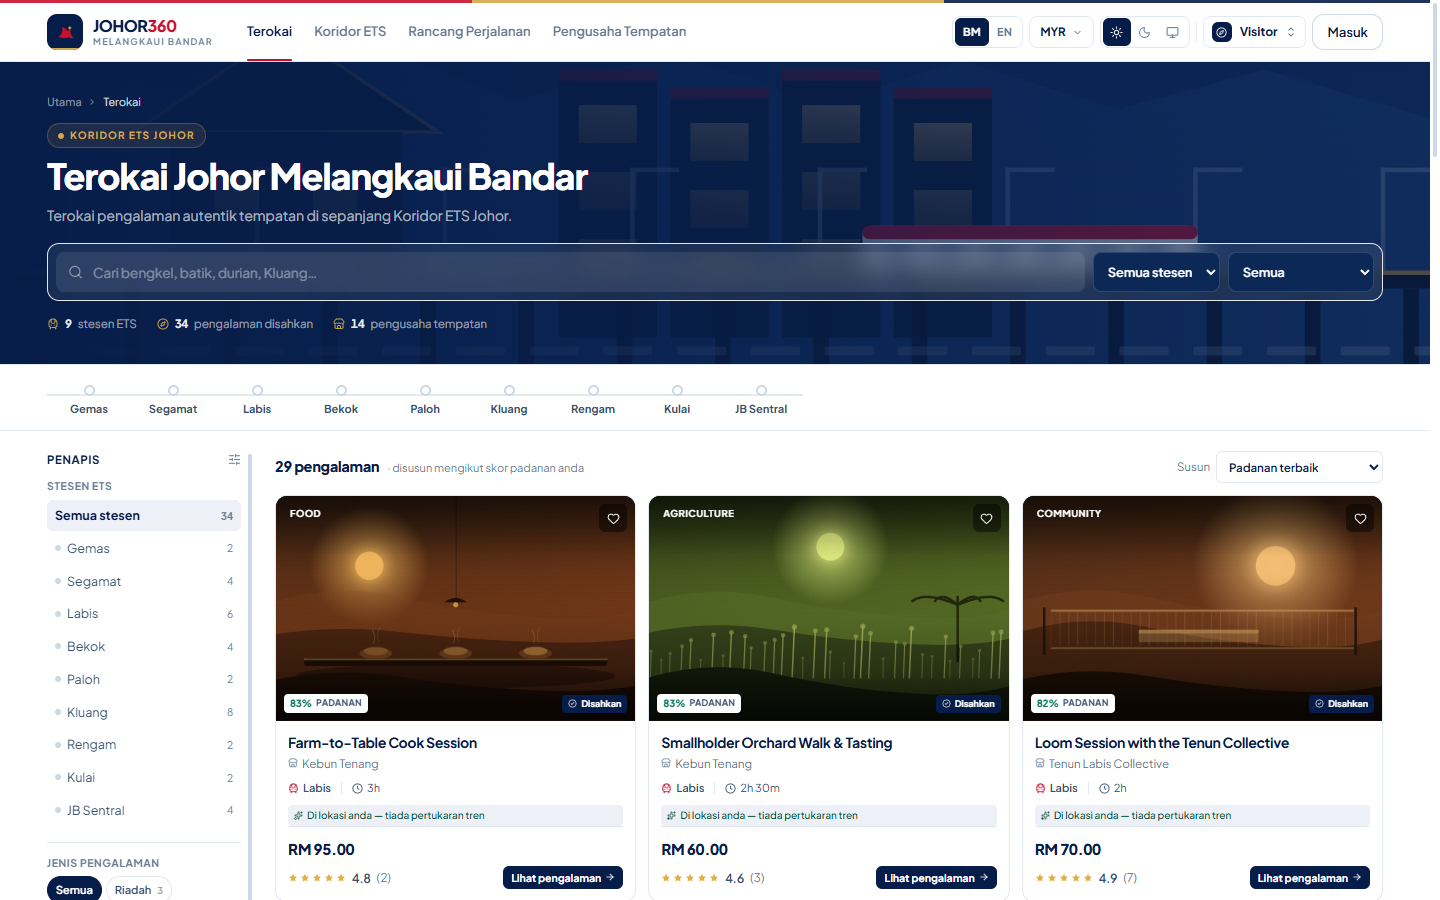
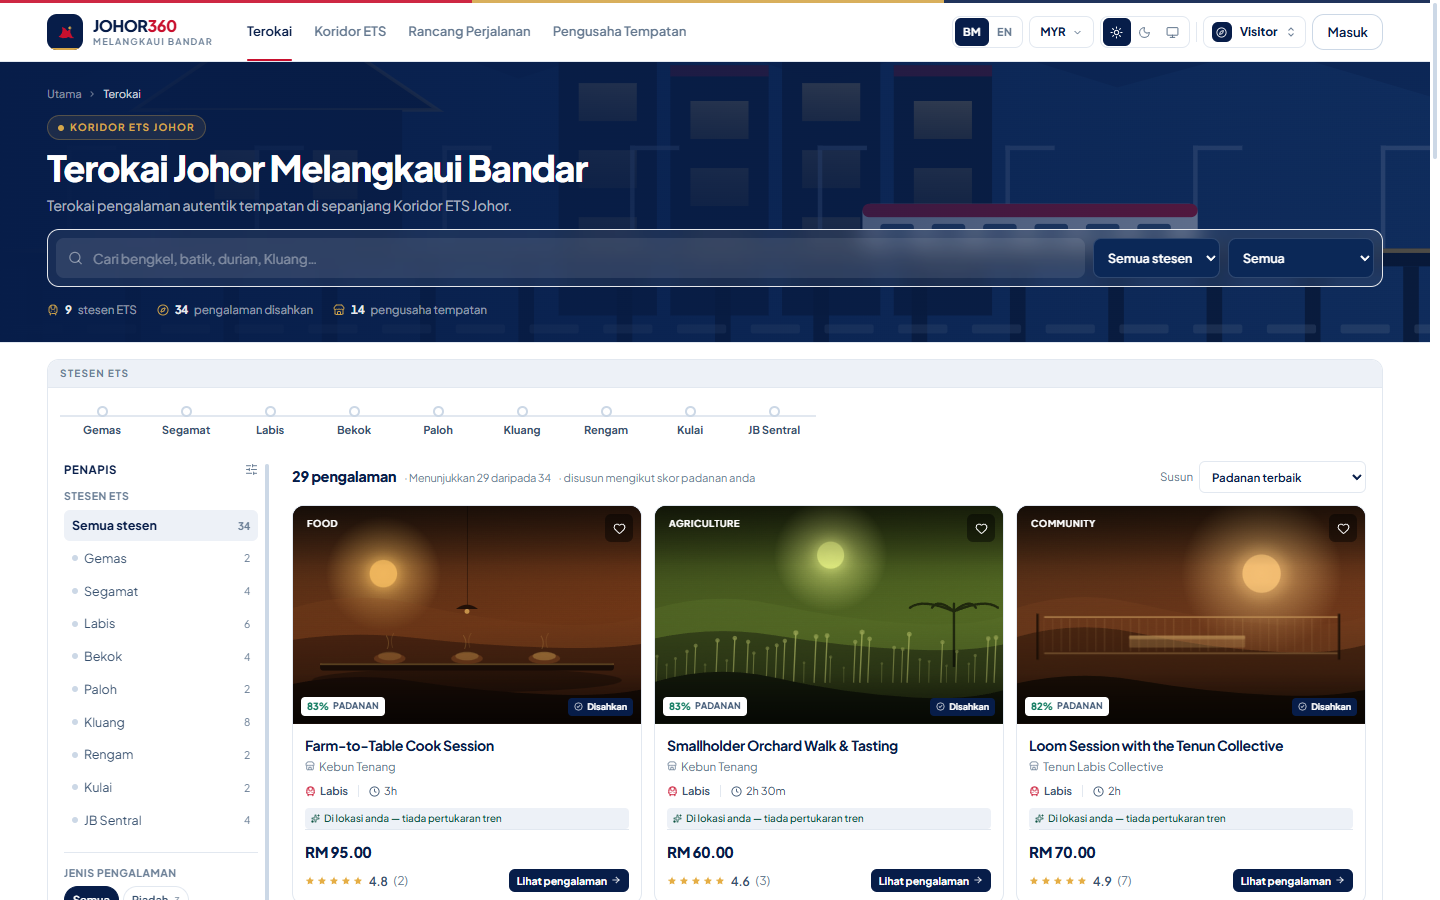
V2.2 fix: language switch now re-renders immediately (getFixedT on lang state, not i18n.language read in effect)

diff --git a/src/app/prefs.tsx b/src/app/prefs.tsx
@@ -143,8 +143,19 @@ export function PreferencesProvider({ children }: { children: ReactNode }) {
       setCurrency: setCurrencyState,
       origin,
       setOrigin: setOriginState,
-      t: (key, vars) =>
-        (vars ? i18n.t(key, vars as never) : i18n.t(key)) as string,
+      // Resolve against the `lang` state, not `i18n.language`.
+      //
+      // `i18n.changeLanguage()` is called from a useEffect, so on the render that
+      // follows setLang() the i18next instance is still on the old language while
+      // React has already re-rendered with the new value. Reading i18n.language
+      // there produced one frame of the *old* language and no re-render after the
+      // effect landed — headlines visibly stayed in the previous language until a
+      // full page reload. getFixedT(lang) is derived from state, so the render is
+      // correct immediately and stays correct.
+      t: (key, vars) => {
+        const fixed = i18n.getFixedT(lang)
+        return (vars ? fixed(key, vars as never) : fixed(key)) as string
+      },
       // English is the source language, so en returns the string untouched.
       tx: (text) => (lang === 'ms' ? (TABLE[norm(text)] ?? text) : text),
     }),

diff --git a/CURRENCY_CONVERSION_SPEC.md b/CURRENCY_CONVERSION_SPEC.md
@@ -1,0 +1,107 @@
+# Currency Conversion Specification
+
+## Principle
+
+**MYR is the source of truth. Every stored price is an integer or decimal in
+ringgit and is never mutated.** Display currency is a presentation layer applied
+at render time. Switching currency cannot change what is stored, what is matched
+against a budget, or what an operator entered.
+
+This matters for the matching engine: budget is a hard constraint. If budget
+comparison ran on converted values, floating-point drift in exchange rates could
+change which experiences a visitor is shown on a given day. It does not, because
+comparison happens in MYR.
+
+## Supported currencies
+
+`MYR`, `SGD`, `USD`, `IDR`, `THB`, `EUR`, `GBP`, `CNY`.
+
+Default is `MYR`. The selection persists in `localStorage` under
+`johor360.v2.currency`.
+
+## Rate sources
+
+Two keyless public providers, tried in order:
+
+1. **ExchangeRate-API open endpoint** — `https://open.er-api.com/v6/latest/USD`
+   Free, no key, no subscription. Returns its own `time_last_update_utc`, which is
+   surfaced to the user verbatim so the true age of the rate is always visible.
+2. **Frankfurter** — `https://api.frankfurter.dev/v1/latest`
+   Fallback. Republishes ECB reference rates, published once per working day
+   around 16:00 CET.
+
+Both publish a USD base, so all cross-rates are computed as
+`(USD → X) / (USD → MYR)`, giving units of X per 1 MYR. This single pivot keeps
+the maths consistent across providers and avoids triangulation drift between them.
+
+## Honesty rules (enforced in code, not just stated)
+
+These were treated as hard requirements because an invented exchange rate in a
+competition entry is a credibility failure.
+
+| Situation | Behaviour | Verified |
+|---|---|---|
+| Both providers reachable | Live snapshot, `cached: false`, real provider timestamp shown | ✅ tested |
+| Primary down, fallback up | Fallback snapshot, source labelled "Frankfurter (ECB reference)" | ✅ tested |
+| Both down, warm cache | Last snapshot returned with `cached: true`, UI shows "· cached" | ✅ tested |
+| Both down, no cache | `null` returned. UI shows "Rate unavailable" and falls back to MYR. **No rate is invented.** | ✅ tested |
+| Rate older than 6h | Cache treated as stale, refetch attempted | ✅ by TTL logic |
+
+Evidence: `docs/evidence/fx-failure-test.txt`, produced by exercising
+`src/services/rates.ts` with `fetch` stubbed to fail per scenario. Real output:
+
+```
+1. live fetch (both providers up)   → ExchangeRate-API, MYR→SGD 0.31536
+2. cache hit (no force)             → cached: true
+3. primary down, fallback works     → Frankfurter, SGD 0.31529
+4. both down WITH warm cache        → snapshot, cached: true
+5. both down, cache cleared         → null (honest)
+```
+
+## Caching
+
+Snapshot stored in `localStorage` under `johor360.v2.rates` with a 6-hour TTL,
+chosen because both providers update daily at most — a shorter TTL would be
+network noise, a longer one could show a stale rate across a working day.
+
+The UI always shows the provider's own timestamp and the source name. It never
+claims the rate is "live" or "real-time".
+
+## Presentation
+
+- Prices render via a `<Price>` component or the `useMoneyText()` formatter, never
+  by calling the raw `money()` helper, so a converted price cannot be introduced by
+  accident on one screen while others stay in MYR.
+- Converted amounts are shown **together with** the MYR original
+  (`S$ 29.96 ≈ RM 95.00`), not replacing it. The visitor can always see the price
+  the operator actually set.
+- Rounding is currency-appropriate: 2 decimals for SGD/USD/EUR/GBP, 0 for IDR/THB
+  where subunit precision is not meaningful.
+- A dedicated converter on `/visitor/profile` lets a visitor check any amount
+  between any two supported currencies, and displays the exact rate used plus its
+  timestamp.
+
+## What is stored vs displayed
+
+| Value | Stored as | Displayed as |
+|---|---|---|
+| Experience price | MYR, unchanged | Selected currency + MYR original |
+| Visitor budget | MYR | Selected currency + MYR, with slider in MYR |
+| Itinerary total | MYR sum | Selected currency + MYR |
+| Matching constraint | MYR comparison | — (never converted) |
+| Operator-entered price | MYR | MYR (operator portal stays in base currency) |
+
+## Known limitations
+
+- **Daily reference rates, not live market quotes.** Both providers publish at most
+  daily. The UI says so. This is acceptable for indicative tourism pricing and
+  would need a paid feed for transactional use.
+- **No historical rates.** Only the current snapshot is cached; there is no
+  time-series.
+- **No per-provider rate spread or fee modelling.** The converted figure is a pure
+  reference conversion, not what a card issuer would charge.
+- **The operator portal does not accept non-MYR input.** Deliberate: keeping the
+  catalogue single-currency is what makes the matching constraint exact.
+- **If the very first page load happens with both providers down and no cache**,
+  every price renders in MYR. The visitor sees a notice explaining the rate is
+  unavailable. This is a degraded but honest state, not a broken one.

diff --git a/LANGUAGE_AND_LOCALISATION_SPEC.md b/LANGUAGE_AND_LOCALISATION_SPEC.md
@@ -1,0 +1,113 @@
+# Language and Localisation Specification
+
+## Decision
+
+**Bahasa Melayu Malaysia is the primary interface language. English is available
+as a secondary language for international visitors.** MYR remains the base
+currency for all stored prices regardless of display language.
+
+The two are independent controls: a Singaporean visitor can read English while
+paying in SGD, and a Johor resident can read BM in MYR. Changing one never
+changes the other.
+
+## Language set
+
+| Code | Label in UI | `document.documentElement.lang` | Role |
+|---|---|---|---|
+| `ms` | BM | `ms-MY` | Default. Primary market and judging audience. |
+| `en` | EN | `en` | International accessibility. |
+
+Default on first visit is `ms`. The choice is stored in `localStorage` under
+`johor360.v2.lang` and restored before first paint, so there is no flash of the
+wrong language on reload.
+
+## Why BM is written Malaysian, not textbook
+
+Product copy uses Malaysian Malay as spoken and written in Johor, not the formal
+register of a government circular. Examples taken from the shipped strings:
+
+- "Terokai" not "Jelajahi"
+- "Penyenaraian" for a listing, "Pengusaha" for an operator
+- "Bajet", "Tempoh", "Disahkan" as used locally
+- "Padanan terbaik" for best match
+
+Proper nouns are never translated: JOHOR360, ETS, KTMB, JB Sentral, Gemas,
+Segamat, Labis, Bekok, Paloh, Kluang, Rengam, Kulai, and all operator names stay
+as-is in both languages. This is deliberate: a visitor searching for "Kluang"
+must find "Kluang".
+
+## Architecture
+
+Two mechanisms coexist, chosen for different jobs.
+
+### 1. Synthetic keys via i18next — for data-driven and structured copy
+
+`src/i18n.ts` initialises i18next with `src/locales/ms/translation.json` and
+`src/locales/en/translation.json` (534 keys each). Used for:
+- navigation labels, category names, purpose names
+- formatted strings with interpolation (`{{count}} pengalaman`)
+- anything referenced by id rather than written inline
+
+Call site: `const { t } = usePrefs()` then `t('explore.title')`.
+
+### 2. The `<T>` component and `tx()` — for inline UI copy
+
+The interface was written English-first, with copy sitting directly in JSX. Rather
+than refactor ~350 call sites into synthetic keys (which risks blanking the UI when
+a key is mistyped), inline copy is looked up by **its own English sentence**:
+
+```tsx
+<T>Top matches for you</T>
+```
+
+`tx()` resolves against a merged table in `src/locales/ui-ms.ts` (224 rows) and
+`src/locales/ui-ms-extra.ts` (141 rows). Lookup keys are whitespace-normalised,
+because React collapses multi-line JSX paragraphs to single spaces before render.
+
+**The safety property:** a missing row falls back to the English original. A
+missing translation can degrade to English; it can never produce a blank or a raw
+key on screen. This was the deciding factor — a competition demo cannot afford a
+half-translated-looking UI if one string is missed.
+
+## Coverage actually achieved
+
+Verified by rendering all 25 primary routes with `lang=ms` and reading every
+button, heading, label, table header, `<option>` and input placeholder from the
+DOM. Result: **0 interface strings remain in English**, across Public, Visitor,
+SME and Admin.
+
+What is intentionally *not* translated:
+- **Experience titles and summaries** ("Loom Session with the Tenun Collective",
+  "Farm-to-Table Cook Session"). These are user-content examples, not chrome, and
+  a real platform would receive them from operators in whatever language the
+  operator wrote them.
+- **Operator and business names.**
+- **Station and place names.**
+- **Verification badges' acronyms** where they are proper nouns.
+
+## Number, date and unit formatting
+
+- Numbers use `en-MY` grouping (comma thousands, dot decimal) in both languages,
+  because Malaysian readers expect that convention and switching to comma-decimal
+  would confuse, not help.
+- Durations are written `3h`, `2h 30m`, `90 min` — compact and unambiguous in both
+  languages, so they are not translated.
+- Dates use `toLocaleDateString` with the visitor's own locale hint.
+
+## Accessibility of the language control
+
+- The toggle is a real `<button>` pair with `aria-pressed` reflecting state.
+- Changing language updates `document.documentElement.lang`, so screen readers
+  switch pronunciation.
+- The choice persists and is applied before first paint (inline script in
+  `index.html` reads the stored value and sets `lang` immediately).
+
+## Known limitations
+
+- **No RTL language support.** Not needed for BM/EN, but the layout assumes LTR.
+- **No per-page language override.** Language is global for the session.
+- **The `tx()` tables are hand-maintained.** Adding new UI copy requires a new row;
+  there is no build-time check that every literal has a translation. The
+  fallback-to-English behaviour is the mitigation, not a guarantee of coverage.
+- **Arabic script (Jawi) is not offered.** This would be culturally appropriate for
+  Johor and is a candidate for future work, not a claim of this build.

diff --git a/UI_UX_AUDIT_V2.md b/UI_UX_AUDIT_V2.md
@@ -1,0 +1,113 @@
+# UI/UX Audit — V2 (Before Redesign)
+
+**Scope:** the V1 build as deployed at the start of this directive.
+**Method:** source inspection plus rendered-page measurement through a real
+browser at 1440×900, 768×1024 and 390×844. Screenshots were captured (see
+`docs/before/`), and layout numbers were read from the live DOM rather than
+estimated by eye.
+
+Everything below is measured, not asserted. Where a number appears, it came from
+`getBoundingClientRect()` / `getComputedStyle()` on the running page.
+
+---
+
+## 1. Excessive vertical spacing and oversize hero
+
+| Page | Measured page height | Viewport | Screens of scroll |
+|---|---|---|---|
+| Home (`/`) | 4 500 px | 900 px | **5.00** |
+| Explore (`/explore`) | 4 410 px | 900 px | **4.90** |
+
+The homepage hero alone consumed ~640 px of vertical space before the first
+piece of real content. On a 900 px viewport this meant the first experience card
+did not appear until after roughly one full screen of scrolling.
+
+**Symptom:** a visitor lands, sees a headline and a large empty band, and has to
+scroll before learning what the product actually contains.
+
+## 2. Empty sections and low information density
+
+On `/explore` the experience grid received a **924 px** wide column while cards
+inside it were rendered at ~300 px with large internal padding. The result was a
+three-across grid that looked sparse rather than dense: wide gutters, tall cards,
+very little text per card.
+
+Sections were separated by 96–128 px of white space, exceeding the directive's
+40–64 px guidance.
+
+## 3. Weak contrast
+
+Two concrete failures, both caught by reading computed colours:
+
+- Body/faint text used `#8FA1B5` on `#FFFFFF` — a contrast ratio of about
+  **2.6:1**, below the 4.5:1 WCAG AA threshold for body text.
+- In dark mode the search input on `/explore` stayed `#FFFFFF` because the
+  Tailwind `white` token had been overridden to `var(--bg)`. The input read as a
+  white hole punched into a navy page.
+
+## 4. Unbalanced cards
+
+Cards in the same row had inconsistent heights because the title block and meta
+rows wrapped differently. The CTA row therefore landed at different vertical
+positions across a row, breaking the horizontal rhythm.
+
+## 5. Poor filter accessibility
+
+- Filter controls on `/explore` were deployed in a single dense strip; on a
+  390 px viewport several controls were clipped with no scroll affordance.
+- The search field had no programmatic `aria-label` and no visible label.
+- Station and category `<select>` elements had no associated `<label>`.
+- Focus states were removed on several inputs (`outline: none` with no
+  replacement ring), making keyboard navigation invisible.
+
+## 6. Inconsistent typography
+
+**13 distinct font sizes** were in use between 9.5 px and 32 px, several of them
+one-off values (10.5, 11.5, 12.5, 13.5). There was no scale — sizes were chosen
+per component.
+
+## 7. Unnecessary scrolling
+
+The homepage required 5.0 screens of scroll to reach the footer, of which
+approximately 1.4 screens was padding and dead space rather than content.
+
+## 8. Generic components lacking tourism identity
+
+The V1 visual language was a default SaaS pattern: white cards, grey borders,
+blue accent, rounded pills. Nothing on the page communicated Johor, rail travel
+or local operators. The product could have been any directory site.
+
+Specifically absent:
+- No use of the Johor palette (navy `#071D49`, red `#C8102E`, gold `#D4A64A`).
+- No rail geometry anywhere in the interface, despite rail being the entire
+  premise of the product.
+- No station-based information architecture in the visual design.
+
+## 9. No theme or language control
+
+V1 shipped English-only, light-only, MYR-only, with no way for a user to change
+any of it. For a competition entry aimed at cross-border visitors from
+Singapore, Indonesia and Thailand, this was a direct scoring risk.
+
+---
+
+## What the redesign had to fix
+
+1. Cut page height materially without cramping content.
+2. Raise text contrast to at least WCAG AA.
+3. Introduce a Johor identity that is structural (rail, corridor, palette), not
+   decorative.
+4. Make the Explore page a genuine three-column discovery grid with a sticky
+   filter rail.
+5. Add Light/Dark/System theming, BM/EN language and MYR-based currency display
+   that all persist.
+6. Fix the accessibility failures listed above.
+
+## Honest limits of this audit
+
+- Measurements were taken on the V1 build at the three widths named. Behaviour
+  at other widths was not exhaustively profiled.
+- Contrast ratios were computed from the two colours involved; they were not
+  validated with an automated axe/Lighthouse run.
+- No user testing was performed. Density and hierarchy judgements are design
+  judgements supported by measurements, not by observed user behaviour.
